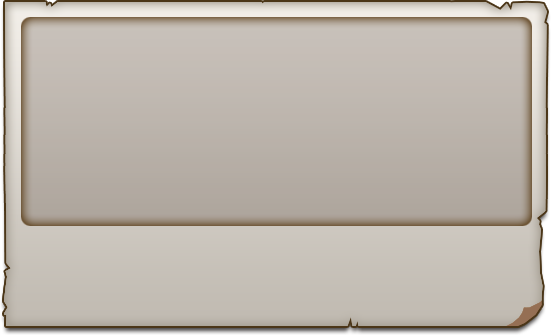
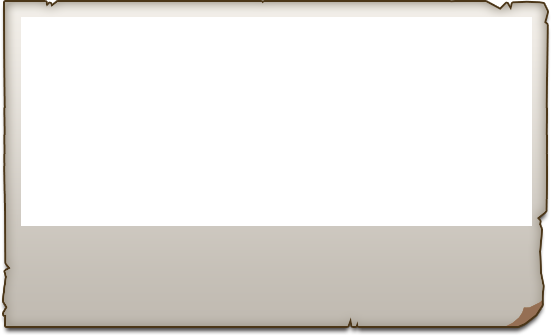
s

diff --git a/Classes/Common/CommonTipsDialog.cpp b/Classes/Common/CommonTipsDialog.cpp
@@ -1,0 +1,112 @@
+//
+//  CommonTipsDialog.cpp
+//  Conqueror
+//
+//  Created by wsli on 16/12/23.
+//
+//
+
+#include "ui/CocosGUI.h"
+#include "CommonTipsDialog.hpp"
+
+void CommonTipsDialog::showModalDialog(cocos2d::Node *parent, std::string text, ui::AbstractCheckButton::ccWidgetClickCallback okCallBack){
+        if (!parent)
+                return;
+        
+        Director::getInstance()->getEventDispatcher()->pauseEventListenersForTarget(parent, true);
+        auto tips = CommonTipsDialog::create(text);
+        tips->initWithCallback(okCallBack);
+        parent->addChild(tips, PRIVILIEGE, NODETAG);
+}
+
+void CommonTipsDialog::dismissDialog(){
+        auto  parent = this->getParent();
+        if (!parent) return;
+        
+        this->removeFromParent();
+        
+        Director::getInstance()->getEventDispatcher()->resumeEventListenersForTarget(parent, true);
+}
+
+bool CommonTipsDialog::initWithCallback(ui::AbstractCheckButton::ccWidgetClickCallback okCallBack){
+        if (nullptr == okCallBack){
+                auto tips_back_size = _tipsBack->getContentSize();
+                auto ok_button = cocos2d::ui::Button::create("DIALOG_OK.png", "DIALOG_OK_SEL.png");
+                ok_button->::CommonTipsDialog::setPosition(tips_back_size.width / 2, ok_button->getContentSize().height *1.5f);
+                ok_button->setTitleText("确定");
+                ok_button->setTitleFontSize(28);
+                ok_button->setTitleColor(Color3B::BLACK);
+                ok_button->setTitleFontName("Arial");
+                ok_button->addClickEventListener(CC_CALLBACK_0(CommonTipsDialog::dismissDialog, this));
+                
+                _tipsBack->addChild(ok_button);
+        }else{
+                
+                auto tips_back_size = _tipsBack->getContentSize();
+                auto cancel_button = cocos2d::ui::Button::create("DIALOG_OK.png", "DIALOG_OK_SEL.png");
+                cancel_button->::CommonTipsDialog::setPosition(tips_back_size.width / 2+ cancel_button->getContentSize().width , cancel_button->getContentSize().height *1.5f);
+                cancel_button->setTitleText("取消");
+                cancel_button->setTitleFontSize(28);
+                cancel_button->setTitleColor(Color3B::BLACK);
+                cancel_button->setTitleFontName("Arial");
+                cancel_button->addClickEventListener(CC_CALLBACK_0(CommonTipsDialog::dismissDialog, this));
+                
+                _tipsBack->addChild(cancel_button);
+                
+                
+                auto ok_button = cocos2d::ui::Button::create("DIALOG_OK.png", "DIALOG_OK_SEL.png");
+                ok_button->::CommonTipsDialog::setPosition(tips_back_size.width / 2 - ok_button->getContentSize().width, ok_button->getContentSize().height *1.5f);
+                ok_button->setTitleText("确定");
+                ok_button->setTitleFontSize(28);
+                ok_button->setTitleColor(Color3B::BLACK);
+                ok_button->setTitleFontName("Arial");
+                ok_button->addClickEventListener(okCallBack);
+                
+                _tipsBack->addChild(ok_button);
+        }
+        
+        return true;
+}
+
+bool CommonTipsDialog::init(){
+        if (!Layer::init()){
+                return false;
+        }
+        
+        auto visible_size = Director::getInstance()->getVisibleSize();
+        
+        _tipsBack = Sprite::create("common_dialog_back.png");
+        auto tips_back_size = _tipsBack->getContentSize();
+        this->setContentSize(tips_back_size);
+        this->setPosition(visible_size / 2);
+        
+        auto tips_title = Sprite::create("common_dialog_title.png");
+        tips_title->setPosition(tips_back_size.width / 2,
+                tips_back_size.height + tips_title->getContentSize().height * 0.2);
+        _tipsBack->addChild(tips_title);
+        
+        
+        auto content_back = Sprite::create("common_dialog_c.png");
+        content_back->setPosition(tips_back_size.width / 2,
+                                 tips_back_size.height - content_back->getContentSize().height * 0.58f);
+        auto content_back_size = content_back->getContentSize();
+        _tipsBack->addChild(content_back);
+        
+        
+        auto content = Label::createWithSystemFont(_contentTxt, "Arial", 24);
+        auto content_size = content->getContentSize();
+        
+        content->setAnchorPoint(Vec2(0.f, 1.0f));
+        content->setDimensions(content_back_size.width * 0.9,
+                                 content_back_size.height * 0.9);
+        
+        content->setHorizontalAlignment(TextHAlignment::LEFT);
+        content->setColor(Color3B::BLACK);
+        content->setPosition(Vec2(content_back_size.width * 0.05,
+                                    content->getContentSize().height  * .5f));
+        content_back->addChild(content);
+        
+        this->addChild(_tipsBack);
+        
+        return true;
+}

diff --git a/Classes/Scenes/GameScene.cpp b/Classes/Scenes/GameScene.cpp
@@ -12,6 +12,8 @@
 #include "SimpleAudioEngine.h"
 #include "PopUpOkCancelDialog.hpp"
 #include "PopUpOkDialog.hpp"
+#include "CommonTipsDialog.hpp"
+
 
 enum{
         ZORDER_BACK_GROUND = 0,
@@ -75,6 +77,7 @@ bool GameScene::init()
         this->initAnimationLayer();
         this->initDialog();
         
+        CommonTipsDialog::showModalDialog(this, "asdfasdfasdfassfasadf");
         
         sdkbox::PluginFacebook::setListener(this);
         sdkbox::PluginFacebook::init();
@@ -508,12 +511,17 @@ void GameScene::initDialog(){
         
         
         auto return_btn_2 = (ui::Button*)return_btn->clone();
-        return_btn_2->setPosition(Vec2(lost_back_size.width / 2 + return_btn_2->getContentSize().width, return_btn_2->getContentSize().height *1.5f));
+        return_btn_2->setPosition(Vec2(lost_back_size.width / 2 + return_btn_2->getContentSize().width, return_btn_2->getContentSize().height * 1.5f));
         game_lost_back->addChild(return_btn_2);
         
         auto replay_btn_2 = (ui::Button*)replay_btn->clone();
-        replay_btn_2->setPosition(Vec2(lost_back_size.width / 2 - replay_btn_2->getContentSize().width, replay_btn_2->getContentSize().height *1.5f));
+        replay_btn_2->setPosition(Vec2(lost_back_size.width / 2 - replay_btn_2->getContentSize().width, replay_btn_2->getContentSize().height * 1.5f));
         game_lost_back->addChild(replay_btn_2);
+        
+        /*
+         *
+         *tips dialog
+         */
 }
 
 #pragma mark - touch and menu event

diff --git a/Classes/Common/CommonTipsDialog.hpp b/Classes/Common/CommonTipsDialog.hpp
@@ -1,0 +1,29 @@
+//
+//  CommonTipsDialog.hpp
+//  Conqueror
+//
+//  Created by wsli on 16/12/23.
+//
+//
+
+#ifndef CommonTipsDialog_hpp
+#define CommonTipsDialog_hpp
+#include "AppMacros.hpp"
+#include "cocos2d.h"
+#include "ui/UIScale9Sprite.h"
+USING_NS_CC;
+
+class CommonTipsDialog: public Layer{
+public:
+        static void showModalDialog(Node* parent, std::string, ui::AbstractCheckButton::ccWidgetClickCallback = nullptr);
+        void dismissDialog();
+        CREATE_FUNC2(CommonTipsDialog, std::string, text);
+        virtual bool init()override;
+        bool initWithCallback(ui::AbstractCheckButton::ccWidgetClickCallback);
+        CommonTipsDialog(std::string text):_contentTxt(text){
+        }
+private:
+        Sprite* _tipsBack;
+        std::string _contentTxt;
+};
+#endif /* CommonTipsDialog_hpp */

diff --git a/Classes/Common/ModalDialog.cpp b/Classes/Common/ModalDialog.cpp
@@ -7,6 +7,8 @@
 //
 
 #include "ModalDialog.hpp"
+#include "AppMacros.hpp"
+
 enum{
         kTagBackGrd = 1,
         kTagRing
@@ -63,9 +65,6 @@ void ModalLayer::onExit(){
         Layer::onExit();
         _waitingTips->stopAllActions();
 }
-
-#define PRIVILIEGE 10000
-#define NODETAG 10000
 void ModalLayer::showModalDialog(Node* parent){
         if (!parent)
                 return;

diff --git a/Classes/AppMacros.hpp b/Classes/AppMacros.hpp
@@ -216,4 +216,9 @@ enum {
 #define TC_VALUE_ONE_SUPPLY (8)
 #define ADDTIONAL_SUPPLY_TIME_PER_GAME (2)
 
+
+
+#define PRIVILIEGE 10000
+#define NODETAG 10000
+
 #endif /* __APPMACROS_H__ */
